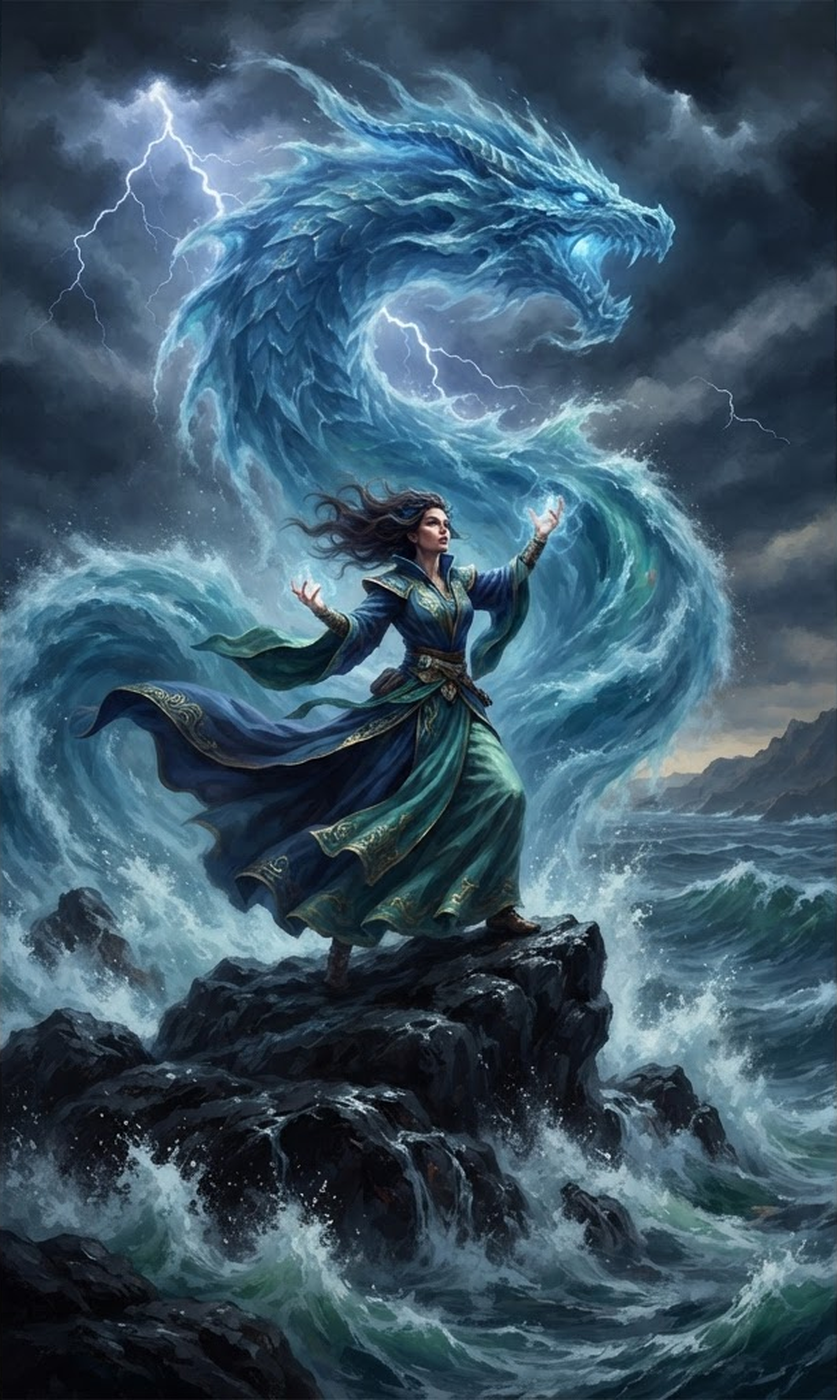
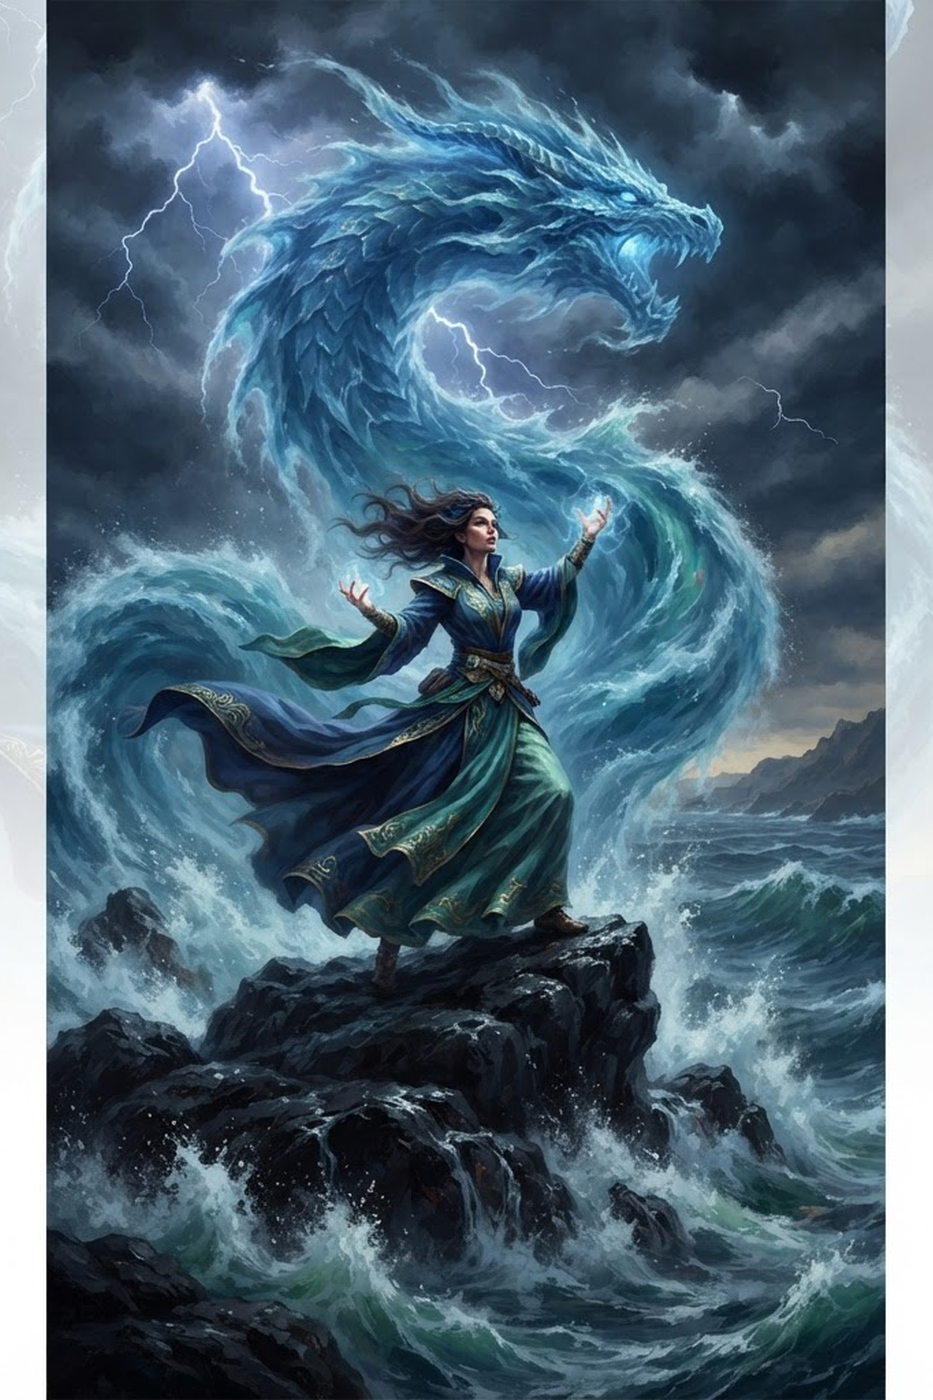
Restored v639: Merge pull request #94 from Mr-fox76/v0/remove-hero-text
Redesign homepage layout and enhance premium card frame visuals

diff --git a/app/globals.css b/app/globals.css
@@ -2341,17 +2341,12 @@
   z-index: 1;
   overflow: hidden;
   border-radius: 0.35rem;
-  background: oklch(0.04 0.02 225);
+  background: var(--background);
 }
 
 .card-frame__window > * {
   width: 100%;
   height: 100%;
-}
-
-.card-frame__window > *,
-.card-frame__window img {
-  object-fit: cover;
 }
 
 .card-frame__sleeve {
@@ -2364,59 +2359,38 @@
 }
 
 .card-frame__rarity,
-.card-frame__caption {
+.card-frame__rate {
   position: absolute;
-  left: 10%;
-  right: 10%;
+  left: 12%;
+  right: 12%;
   z-index: 3;
   display: flex;
   align-items: center;
   justify-content: center;
-  color: #0b0b0f;
-  background: #fff;
-  border-radius: 999px;
-  box-shadow: 0 1px 4px oklch(0 0 0 / 40%), inset 0 0 0 1px oklch(0 0 0 / 6%);
+  color: #fff;
   font-family: var(--font-mono);
-  font-weight: 600;
+  font-weight: 800;
   text-align: center;
   text-transform: uppercase;
+  text-shadow:
+    0 1px 2px oklch(0 0 0 / 60%),
+    0 0 2px oklch(0 0 0 / 45%),
+    0 -1px 0 oklch(1 0 0 / 20%);
   pointer-events: none;
 }
 
 .card-frame__rarity {
-  top: 1.8%;
-  height: 7.5%;
-  padding: 0 0.7em;
-  letter-spacing: 0.12em;
-  font-weight: 500;
-  font-size: clamp(0.38rem, 3.5cqw, 0.78rem);
-  }
-
-.card-frame__caption {
-  bottom: 1.8%;
-  min-height: 11%;
-  flex-direction: column;
-  justify-content: center;
-  gap: 0.05em;
-  padding: 0.35em 0.7em;
-  border-radius: 1.1em;
-  line-height: 1.1;
-}
-
-.card-frame__title {
-  letter-spacing: 0.12em;
-  font-weight: 500;
-  font-size: clamp(0.38rem, 3.5cqw, 0.78rem);
-  overflow: hidden;
-  text-overflow: ellipsis;
-  white-space: nowrap;
-  max-width: 100%;
+  top: 1.6%;
+  height: 8%;
+  letter-spacing: 0.2em;
+  font-size: clamp(0.5rem, 5cqw, 1.05rem);
 }
 
 .card-frame__rate {
+  bottom: 1.6%;
+  height: 8%;
   letter-spacing: 0.1em;
-  font-size: clamp(0.4rem, 3.4cqw, 0.72rem);
-  opacity: 0.92;
+  font-size: clamp(0.42rem, 3.9cqw, 0.8rem);
 }
 
 .card-frame--missing .card-frame__window {

diff --git a/components/card-with-frame.tsx b/components/card-with-frame.tsx
@@ -40,11 +40,8 @@ export function CardWithFrame({
     <div className={`card-frame ${className ?? ''}`}>
       <div className="card-frame__window">{children}</div>
       <img className="card-frame__sleeve" src={meta.frame} alt="" aria-hidden="true" />
-      <span className="card-frame__rarity">{meta.label}</span>
-      <span className="card-frame__caption">
-        {title?.trim() ? <span className="card-frame__title">{title.trim()}</span> : null}
-        <span className="card-frame__rate">{meta.rate}</span>
-      </span>
+      <span className="card-frame__rarity">{title?.trim() || meta.label}</span>
+      <span className="card-frame__rate">{meta.rate}</span>
     </div>
   )
 }
